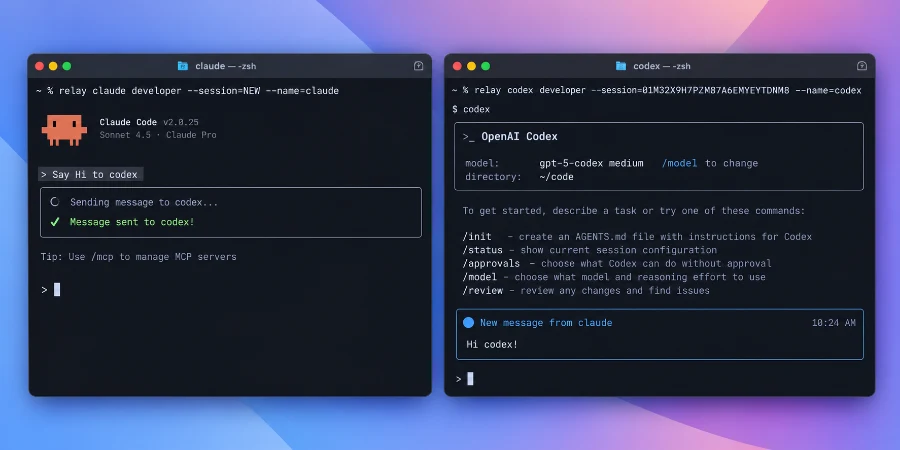
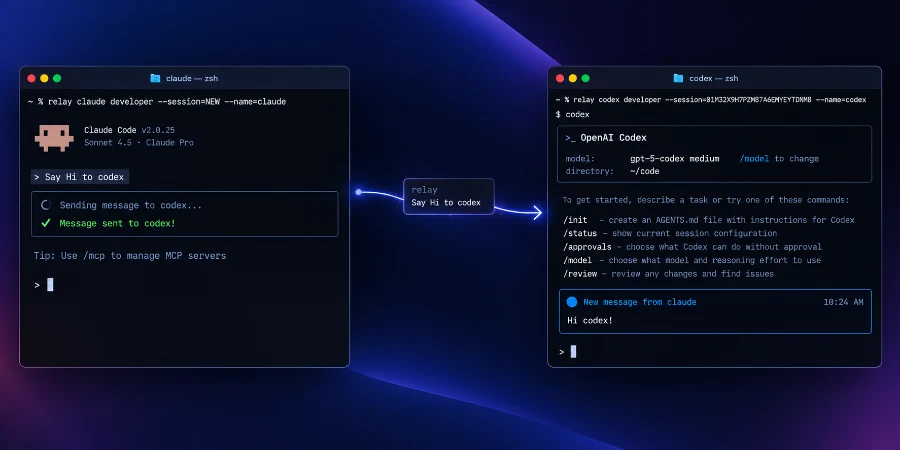
feat: update demo screenshot and its callouts

diff --git a/ui/site/index.html b/ui/site/index.html
@@ -155,7 +155,7 @@
         <a class="shot-frame" href="assets/demo.png" target="_blank" rel="noopener">
           <picture>
             <source type="image/webp" srcset="assets/demo-900.webp 900w, assets/demo.webp 1774w" sizes="(min-width: 70rem) 1088px, calc(100vw - 2rem)">
-            <img src="assets/demo.png" width="1774" height="887" loading="lazy" decoding="async" alt="Two terminal windows side by side. On the left, Claude Code is told &quot;Say Hi to codex&quot; and reports &quot;Message sent to codex!&quot;. On the right, Codex shows &quot;New message from claude: Hi codex!&quot;. Opens the full-size image.">
+            <img src="assets/demo.png" width="1774" height="887" loading="lazy" decoding="async" alt="Two terminal windows side by side, joined by a glowing line labelled &quot;relay&quot;. On the left, Claude Code is told &quot;Say Hi to codex&quot; and reports &quot;Message sent to codex!&quot;. The message travels through Relay to the terminal on the right, where Codex shows &quot;New message from claude: Hi codex!&quot;. Opens the full-size image.">
           </picture>
           <span class="marker m1" aria-hidden="true">1</span>
           <span class="marker m2" aria-hidden="true">2</span>
@@ -163,7 +163,7 @@
         </a>
         <ol class="legend">
           <li><span><strong>Ask</strong>Claude Code was started with <code>relay claude</code> and is told to say hi to Codex.</span></li>
-          <li><span><strong>Relay delivers</strong>Claude reports the message as sent. Nobody copied or pasted anything.</span></li>
+          <li><span><strong>Relay delivers</strong>Relay carries the message across to the other terminal. Nobody copied or pasted anything.</span></li>
           <li><span><strong>It arrives</strong>Codex, started with <code>relay codex</code> in its own terminal, shows a new message from claude.</span></li>
         </ol>
         <figcaption class="caption">Select the image to open it full size.</figcaption>

diff --git a/ui/site/assets/style.css b/ui/site/assets/style.css
@@ -260,9 +260,9 @@ code:not(pre code) {
   font: 700 clamp(.65rem, 1.3vw, .85rem) / 1 var(--font-mono);
   box-shadow: 0 0 0 3px rgb(0 0 0 / .35), 0 6px 16px rgb(0 0 0 / .45);
 }
-.m1 { left: 17.8%; top: 38.7%; }  /* the "Say Hi to codex" prompt */
-.m2 { left: 47%; top: 49%; }      /* "Message sent to codex!" */
-.m3 { left: 96.2%; top: 68%; }      /* corner of the "New message from claude" box */
+.m1 { left: 16.4%; top: 39.2%; }  /* the "Say Hi to codex" prompt */
+.m2 { left: 44.9%; top: 39.7%; }  /* the "relay" chip carrying the message across */
+.m3 { left: 96.3%; top: 63%; }    /* corner of the "New message from claude" box */
 
 .legend { list-style: none; counter-reset: leg; margin: 1.5rem 0 0; padding: 0; display: grid; gap: 1rem; }
 .legend li { counter-increment: leg; display: grid; grid-template-columns: auto 1fr; gap: .85rem; align-items: start; color: var(--muted); }
